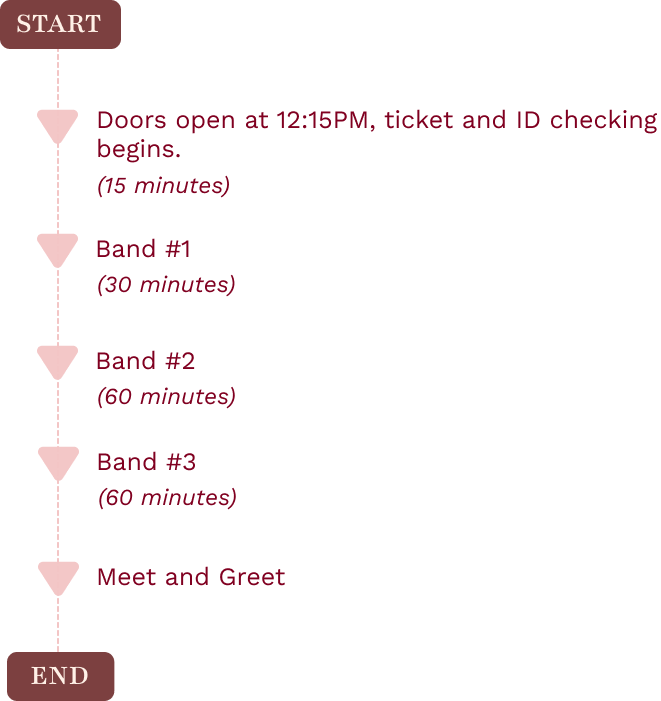
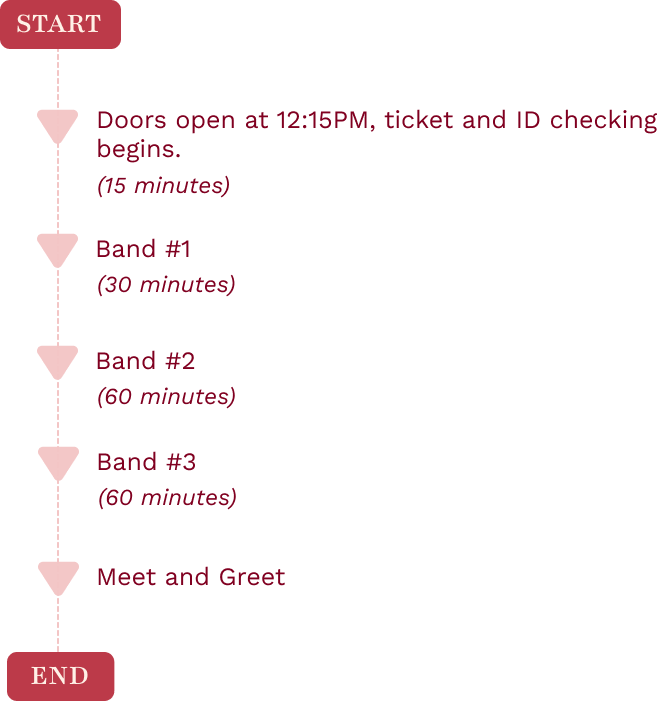
added dynamic review section in bookings page

Changed region(s): [[0.0, 0.9287, 0.1815, 1.0], [0.0, 0.0, 0.1815, 0.0899]]

diff --git a/css/style.css b/css/style.css
@@ -3168,7 +3168,7 @@ a:focus-visible { outline: 2px solid #D45060; outline-offset: 2px; }
 .content-sub-nav .left-side section {
   display: none;
   margin-right: 300px;
-  margin-left: 30px;
+  margin-left: 50px;
   margin-top: 20px;
 }
 
@@ -3316,7 +3316,7 @@ a:focus-visible { outline: 2px solid #D45060; outline-offset: 2px; }
 }
 
 #itinerary img {
-  width: 80%;
+  width: 90%;
   height: 100%;
 }
 
@@ -3329,6 +3329,158 @@ a:focus-visible { outline: 2px solid #D45060; outline-offset: 2px; }
 .mapUp{
 	border: 1px solid #08f;
 	border-radius: 10px;
+}
+
+/* Review CSS */
+/* --- Reviews Section Styles --- */
+.reviews-section {
+    display: flex;
+    flex-direction: column;
+    gap: 20px;
+    padding: 10px 0;
+}
+
+/* Filter Pills Styling */
+.review-filters {
+    display: flex;
+    gap: 12px;
+}
+
+.filter-pill {
+    padding: 6px 18px;
+    border-radius: 20px;
+    border: 1.5px solid #801C2E;
+    background-color: #ffffff;
+    color: #801C2E;
+    font-size: 0.95rem;
+    font-weight: 500;
+    cursor: pointer;
+    transition: all 0.2s ease;
+}
+
+/* Selected state: fills background with color */
+.filter-pill.active {
+    background-color: #D55B68; /* Highlight burgundy/rose color */
+    color: #ffffff;
+    border-color: #D55B68;
+}
+
+/* Review Cards List */
+.reviews-list {
+    display: flex;
+    flex-direction: column;
+    gap: 24px;
+    margin-top: 30px;
+}
+
+.review-card {
+    display: flex;
+    gap: 16px;
+    padding-bottom: 20px;
+    border-bottom: 1px solid #D8C3C7;
+}
+
+/* Avatars */
+.avatar-circle {
+    width: 46px;
+    height: 46px;
+    border-radius: 50%;
+    display: flex;
+    align-items: center;
+    justify-content: center;
+    font-weight: bold;
+    color: #801C2E;
+    font-size: 0.95rem;
+    flex-shrink: 0;
+}
+
+.avatar-pink { background-color: #F8D3D6; }
+.avatar-tan { background-color: #F3DAC8; }
+.avatar-user { background-color: #E2CFEA; }
+
+.review-body {
+    display: flex;
+    flex-direction: column;
+    gap: 6px;
+}
+
+.reviewer-name {
+    margin: 0;
+    color: #801C2E;
+    font-size: 1.05rem;
+    font-weight: bold;
+}
+
+.review-text {
+    margin: 0;
+    color: #222;
+    font-size: 0.95rem;
+    line-height: 1.4;
+}
+
+.review-media {
+    display: flex;
+    gap: 8px;
+    margin-top: 6px;
+}
+
+.media-box {
+    width: 55px;
+    height: 55px;
+    border-radius: 12px;
+}
+
+.media-box.burgundy {
+    background-color: #801C2E;
+}
+
+.media-box.grey-badge {
+    background-color: #DBDBDB;
+    color: #ffffff;
+    display: flex;
+    align-items: center;
+    justify-content: center;
+    font-size: 1.1rem;
+    font-weight: 500;
+}
+
+/* Leave Review Form Box */
+.add-review-box {
+    display: flex;
+    align-items: center;
+    justify-content: space-between;
+    border: 1.5px solid #C48E96;
+    border-radius: 12px;
+    padding: 6px 6px 6px 16px;
+    background-color: #fff;
+}
+
+.add-review-box input {
+    border: none;
+    outline: none;
+    width: 100%;
+    font-size: 0.95rem;
+    color: #333;
+}
+
+.add-review-box input::placeholder {
+    color: #C48E96;
+}
+
+.add-review-box button {
+    background-color: #801C2E;
+    color: white;
+    border: none;
+    padding: 10px 24px;
+    border-radius: 20px;
+    font-size: 0.95rem;
+    font-weight: 600;
+    cursor: pointer;
+    transition: opacity 0.2s;
+}
+
+.add-review-box button:hover {
+    opacity: 0.9;
 }
 
 

diff --git a/html/bookingsPage.html b/html/bookingsPage.html
@@ -121,12 +121,55 @@
                 <img src="../images/itinerary-static.png" alt="Itinerary">
             </section>
 
-            <section id="reviews">
-                <h2>Reviews</h2>
+            <section id="reviews" class="review-section">
+                <!-- Filter Pill Buttons -->
+                <div class="review-filters">
+                    <button type="button" class="filter-pill active" data-filter="all">Newest</button>
+                    <button type="button" class="filter-pill" data-filter="popular">Popular</button>
+                    <button type="button" class="filter-pill" data-filter="photos">Photos</button>
+                </div>
+
+                <!-- Review Comments List Container -->
+                <div id="reviews-list" class="reviews-list">
+                    <!-- Default Review 1 -->
+                    <article class="review-card">
+                        <div class="avatar-circle avatar-pink">ML</div>
+                        <div class="review-body">
+                            <h4 class="reviewer-name">Maya L.</h4>
+                            <p class="review-text">Absolutely stunning venue! The staff were so helpful and kind- will come again!</p>
+                            <div class="review-media">
+                                <div class="media-box burgundy"></div>
+                                <div class="media-box burgundy"></div>
+                                <div class="media-box burgundy"></div>
+                                <div class="media-box grey-badge">+3</div>
+                            </div>
+                        </div>
+                    </article>
+
+                    <!-- Default Review 2 -->
+                    <article class="review-card">
+                        <div class="avatar-circle avatar-tan">DK</div>
+                        <div class="review-body">
+                            <h4 class="reviewer-name">Dan K.</h4>
+                            <p class="review-text">hated this place. never going back.</p>
+                            <div class="review-media">
+                                <div class="media-box burgundy"></div>
+                                <div class="media-box burgundy"></div>
+                            </div>
+                        </div>
+                    </article>
+                </div>
+
+                <!-- Post Review Input Box -->
+                <div class="add-review-box">
+                    <input type="text" id="review-input" placeholder="Leave a Review!" autocomplete="off" />
+                    <button type="button" id="post-review-btn">Post</button>
+                </div>
             </section>
 
             <section id="board">
-                <h2>Discussion-board (in-progress)</h2>
+                <h3>IN-PROGRESS</h3>
+                <img src="../images/in-the-room.png" alt="in-the-room-sample">
                 <img src="../images/discussion-board-static.png" alt="discussion-board-sample">
             </section>
         </div>

diff --git a/js/script.js b/js/script.js
@@ -89,6 +89,57 @@ document.addEventListener('DOMContentLoaded', () => {
             }
         });
     }
+
+    // --- Review Filter Buttons Toggle Logic ---
+    const filterPills = document.querySelectorAll('.review-filters .filter-pill');
+    filterPills.forEach(pill => {
+        pill.addEventListener('click', () => {
+            // Remove 'active' class from all buttons
+            filterPills.forEach(p => p.classList.remove('active'));
+            // Add 'active' class to clicked button
+            pill.classList.add('active');
+        });
+    });
+
+    // --- Post New Review Logic ---
+    const postBtn = document.getElementById('post-review-btn');
+    const reviewInput = document.getElementById('review-input');
+    const reviewsList = document.getElementById('reviews-list');
+
+    if (postBtn && reviewInput && reviewsList) {
+        const createAndPostReview = () => {
+            const text = reviewInput.value.trim();
+            if (!text) return; // Ignore empty comments
+
+            // Create card HTML element dynamically
+            const newReviewCard = document.createElement('article');
+            newReviewCard.className = 'review-card';
+
+            newReviewCard.innerHTML = `
+                <div class="avatar-circle avatar-user">YOU</div>
+                <div class="review-body">
+                    <h4 class="reviewer-name">You</h4>
+                    <p class="review-text">${text}</p>
+                </div>
+            `;
+
+            // Prepend new review at the top of the list
+            reviewsList.prepend(newReviewCard);
+
+            // Clear input box
+            reviewInput.value = '';
+        };
+
+        // Trigger on button click
+        postBtn.addEventListener('click', createAndPostReview);
+
+        // Allow pressing "Enter" key to post
+        reviewInput.addEventListener('keypress', (e) => {
+            if (e.key === 'Enter') {
+                createAndPostReview();
+            }
+        });
+    }
 });
 
 // --- Follow Host Button Logic ---
